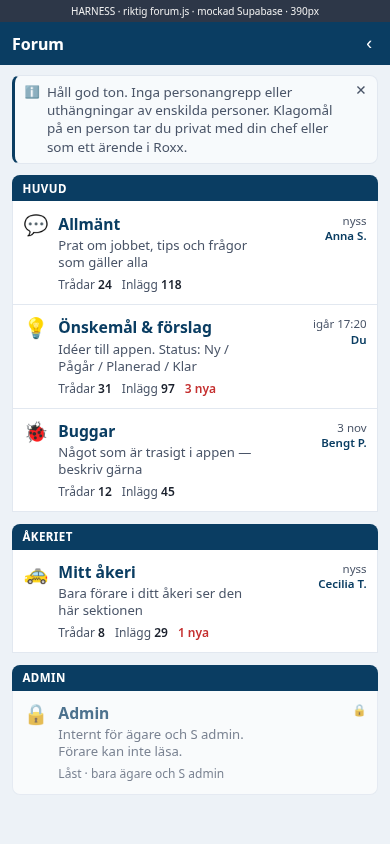
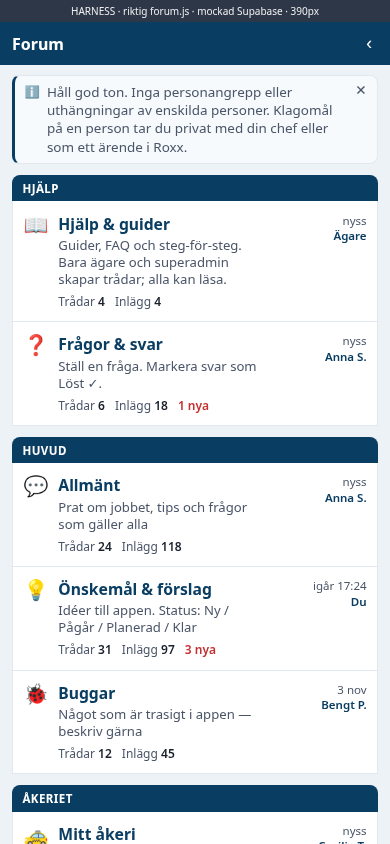
Forum: Hjälp & guider + Frågor & svar (sticky, Löst ✓)
Nya sektioner under grupp HJÄLP. Guider: alla läser, ägare/superadmin
skriver och kan fästa trådar. Frågor & svar: alla skriver; frågeställare
eller ägare/superadmin markerar svar som Löst ✓.
Seed-guider (ej applicerad): 20261106c_forum_guides_seed.sql.
Ordval: "S admin" → "superadmin" i forum/om-texter.

diff --git a/TaxiData/forum.js b/TaxiData/forum.js
@@ -57,6 +57,9 @@
     '.fx-st-pagar{background:var(--c-fefcbf,#fefcbf);color:var(--c-975a16,#975a16)}\n' +
     '.fx-st-planerad{background:var(--c-e9d8fd,#e9d8fd);color:var(--c-553c9a,#553c9a)}\n' +
     '.fx-st-klar{background:var(--c-c6f6d5,#c6f6d5);color:var(--c-22543d,#22543d)}\n' +
+    '.fx-st-lost{background:var(--c-c6f6d5,#c6f6d5);color:var(--c-22543d,#22543d)}\n' +
+    '.fx-pin{font-size:.72rem;margin-right:.2rem}\n' +
+    '.fx-sol{outline:2px solid var(--c-22543d,#22543d);outline-offset:-2px}\n' +
     '.fx-post{background:var(--surface);border:1px solid var(--border-soft,var(--border));border-radius:8px;margin:0 0 .55rem;overflow:hidden}\n' +
     '.fx-post .ph{display:flex;justify-content:space-between;gap:8px;padding:.45rem .6rem;background:var(--surface-soft,var(--bg,#f7fafc));border-bottom:1px solid var(--border-soft,var(--border));font-size:.82rem}\n' +
     '.fx-post .au{font-weight:700;color:var(--primary)}\n' +
@@ -146,7 +149,7 @@
   function setUnread(n) { if (window.setBadge) setBadge('forum', +n || 0); }
   function push(view) { try { history.pushState({ view: F.id, sub: view }, ''); } catch (e) {} }
   function flashHtml() { var f = st.flash; st.flash = null; return f ? '<div class="fx-flash">' + esc(f) + '</div>' : ''; }
-  function grpLabel(g) { return g === 'akeri' ? 'Åkeriet' : g === 'admin' ? 'Admin' : 'Huvud'; }
+  function grpLabel(g) { return g === 'hjalp' ? 'Hjälp' : g === 'akeri' ? 'Åkeriet' : g === 'admin' ? 'Admin' : 'Huvud'; }
 
   // ── Views ──────────────────────────────────────────────────────────────
 
@@ -178,7 +181,7 @@
           '<div class="main"><div class="name">' + esc(s.title) + '</div>' +
           '<div class="desc">' + esc(s.description || '') + '</div>' +
           (locked
-            ? '<div class="meta"><span>Låst · bara ägare och S admin</span></div></div><div class="last">🔒</div>'
+            ? '<div class="meta"><span>Låst · bara ägare och superadmin</span></div></div><div class="last">🔒</div>'
             : '<div class="meta"><span>Trådar <b>' + (+s.threads || 0) + '</b></span><span>Inlägg <b>' + (+s.replies || 0) + '</b></span>' +
               (s.unread ? '<span class="new">' + s.unread + ' nya</span>' : '') + '</div></div>' +
               '<div class="last">' + (s.last ? (esc(when(s.last.at)) + '<br><span class="who">' + esc(s.last.mine ? 'Du' : sn(s.last.author)) + '</span>') : '—') + '</div>') +
@@ -213,7 +216,9 @@
       html += '<div class="fx-thhead" aria-hidden="true"><span>Tråd</span><span>Sv</span><span>Senaste</span></div>';
       list.forEach(function (t) {
         html += '<button type="button" class="fx-th' + (t.status === 'klar' ? ' dim' : '') + '" data-a="thread" data-id="' + t.id + '">' +
-          '<div class="ti"><div class="t">' + (t.unread ? '💬 ' : '') + esc(t.title) + stChip(t.status) + '</div>' +
+          '<div class="ti"><div class="t">' + (t.sticky ? '<span class="fx-pin" title="Fäst">📌</span>' : '') +
+          (t.unread ? '💬 ' : '') + esc(t.title) + stChip(t.status) +
+          (t.solved ? '<span class="fx-st fx-st-lost">Löst ✓</span>' : '') + '</div>' +
           '<div class="s">av ' + esc(t.mine ? 'Du' : sn(t.author)) + (t.co ? ' · ' + esc(t.co) : '') + ' · ' + esc(when(t.created_at)) + '</div></div>' +
           '<div class="n">' + (+t.replies || 0) + '</div>' +
           '<div class="lm">' + esc(when(t.last_activity_at)) + '<br><span class="who">' + esc(sn(t.last_author || t.author)) + '</span></div></button>';
@@ -235,7 +240,11 @@
     if (!t) { root.innerHTML = html + '<div class="fx-empty">Laddar…</div>'; return; }
     html += '<div class="fx-crumb"><button type="button" data-a="home">Forum</button><span>›</span>' +
       '<button type="button" data-a="sec" data-id="' + esc(t.section.id) + '">' + esc(t.section.title) + '</button>' +
-      '<span>›</span><b>' + esc(t.title) + '</b>' + stChip(t.status) + '</div>';
+      '<span>›</span><b>' + (t.sticky ? '📌 ' : '') + esc(t.title) + '</b>' + stChip(t.status) +
+      (t.solved ? '<span class="fx-st fx-st-lost">Löst ✓</span>' : '') + '</div>';
+    if (t.can_pin) {
+      html += '<div class="fx-actions"><button type="button" data-a="pin">' + (t.sticky ? 'Lossa tråd' : 'Fäst tråd') + '</button></div>';
+    }
     if (st.err) html += '<div class="fx-err">' + esc(st.err) + '</div>';
     if (t.section.has_status && t.status) {
       html += '<div class="fx-status">Status: <b>' + esc(stName(t.status)) + '</b>' +
@@ -257,10 +266,16 @@
       }
     }
     (t.posts || []).forEach(function (p) {
-      html += '<div class="fx-post' + (p.hidden ? ' hid' : '') + '"><div class="ph"><span class="au">' + who(p.author, p.aid) + '</span>' +
-        '<span class="tm">#' + p.n + ' · ' + esc(when(p.created_at)) + (p.edited ? ' · redigerad' : '') + '</span></div>' +
+      html += '<div class="fx-post' + (p.hidden ? ' hid' : '') + (p.is_solution ? ' fx-sol' : '') + '"><div class="ph"><span class="au">' + who(p.author, p.aid) + '</span>' +
+        '<span class="tm">#' + p.n + ' · ' + esc(when(p.created_at)) + (p.edited ? ' · redigerad' : '') +
+        (p.is_solution ? ' · Löst ✓' : '') + '</span></div>' +
         '<div class="pb">' + esc(p.body) + '</div>' +
-        '<div class="pf">' + (p.mine ? 'Du' : esc(sn(p.author))) + (p.co ? ' · ' + esc(p.co) : '') + '</div></div>';
+        '<div class="pf">' + (p.mine ? 'Du' : esc(sn(p.author))) + (p.co ? ' · ' + esc(p.co) : '');
+      if (t.can_solve && p.n > 1) {
+        if (p.is_solution) html += ' · <button type="button" data-a="unsolve">Ta bort Löst</button>';
+        else html += ' · <button type="button" data-a="solve" data-id="' + p.id + '">Markera som Löst ✓</button>';
+      }
+      html += '</div></div>';
     });
     if (t.can_write) {
       html += '<div class="fx-reply">' + ruleBox(true) +
@@ -347,7 +362,7 @@
     if (a === 'rulesok') { rulesAccept(); return; }
     if (a === 'home') { goHome(); return; }
     if (a === 'sec') { goSection(el.getAttribute('data-id')); return; }
-    if (a === 'locked') { alert('Den här sektionen är bara för ägare och S admin.'); return; }
+    if (a === 'locked') { alert('Den här sektionen är bara för ägare och superadmin.'); return; }
     if (a === 'thread') { goThread(+el.getAttribute('data-id')); return; }
     if (a === 'new') { openEditor(null); return; }
     if (a === 'togklar') {
@@ -363,6 +378,39 @@
       st.busy = true; paint();
       rpc('forum_thread_status', { p_thread_id: st.thread.id, p_status: st.pick, p_comment: c ? c.value : '' }).then(function () {
         st.busy = false; st.pick = null; st.flash = 'Statusen är sparad.';
+        return loadThread(st.thread.id);
+      }).then(function () { paint(); }).catch(function (e) {
+        st.busy = false; if (!fail(e)) { st.err = errText(e); paint(); }
+      });
+      return;
+    }
+    if (a === 'pin') {
+      if (!st.thread || st.busy) return;
+      st.busy = true; paint();
+      rpc('forum_thread_pin', { p_thread_id: st.thread.id, p_sticky: !st.thread.sticky }).then(function () {
+        st.busy = false; st.flash = st.thread.sticky ? 'Tråden är lossad.' : 'Tråden är fäst.';
+        return loadThread(st.thread.id);
+      }).then(function () { paint(); }).catch(function (e) {
+        st.busy = false; if (!fail(e)) { st.err = errText(e); paint(); }
+      });
+      return;
+    }
+    if (a === 'solve') {
+      if (!st.thread || st.busy) return;
+      st.busy = true; paint();
+      rpc('forum_thread_solve', { p_thread_id: st.thread.id, p_reply_id: +el.getAttribute('data-id') }).then(function () {
+        st.busy = false; st.flash = 'Svaret är markerat som Löst ✓.';
+        return loadThread(st.thread.id);
+      }).then(function () { paint(); }).catch(function (e) {
+        st.busy = false; if (!fail(e)) { st.err = errText(e); paint(); }
+      });
+      return;
+    }
+    if (a === 'unsolve') {
+      if (!st.thread || st.busy) return;
+      st.busy = true; paint();
+      rpc('forum_thread_solve', { p_thread_id: st.thread.id, p_reply_id: null }).then(function () {
+        st.busy = false; st.flash = 'Löst-markeringen är borttagen.';
         return loadThread(st.thread.id);
       }).then(function () { paint(); }).catch(function (e) {
         st.busy = false; if (!fail(e)) { st.err = errText(e); paint(); }

diff --git a/TaxiData/om-data.js b/TaxiData/om-data.js
@@ -11,11 +11,11 @@ window.OM_DATA = {
     ['🏆', 'Topplistor', 'hur du ligger till jämfört med andra (anonymt)'],
     ['🛠', 'Anmälningar & ärenden', 'felanmälan, sånt som behövs till bilen, verkstadstimmar och sjukanmälan'],
     ['📅', 'Kalender', 'konserter, matcher, mässor och andra evenemang'],
-    ['💬', 'Forum', 'sektioner med trådar: Allmänt, Önskemål, Buggar, Mitt åkeri'],
+    ['💬', 'Forum', 'Hjälp & guider, Frågor & svar, Allmänt, Önskemål, Buggar, Mitt åkeri'],
     ['🔮', 'Prognos', 'kommande bokningar per zon och morgonprognos'],
     ['🤖', 'Hjälpbot', 'liten hjälpare längst ner på skärmen']
   ],
-  builder: 'Appen byggs av Christian (S admin) och är under utveckling. Saker kan ändras, och ibland blir något fel.',
+  builder: 'Appen byggs av Christian (superadmin) och är under utveckling. Saker kan ändras, och ibland blir något fel.',
   builder_demo: 'Appen är under utveckling. Saker kan ändras, och ibland blir något fel.',   // demokonton: inget namn
   report: 'Hittar du ett fel eller har en idé? Skriv i Forum under Buggar eller Önskemål & förslag. Där ser du också status (Ny / Pågår / Planerad / Klar).',
   faq: [
@@ -34,9 +34,9 @@ window.OM_DATA = {
     { q: 'Vem ser mitt namn i Topplistor?',
       a: 'Andra förare ser bara placering och värde, inte namn. Din egen rad visas som "Du". Bara ägaren ser namn.' },
     { q: 'Vem ser mina felanmälningar i Anmälningar & ärenden?',
-      a: 'Du ser dina egna anmälningar. Ägaren och S admin ser alla, så att felet kan åtgärdas. Andra förare ser inte dina anmälningar.' },
+      a: 'Du ser dina egna anmälningar. Ägaren och superadmin ser alla, så att felet kan åtgärdas. Andra förare ser inte dina anmälningar.' },
     { q: 'Vem ser det jag skriver i Forum?',
-      a: 'Allmänt, Önskemål & förslag och Buggar är gemensamma: där ser förare från alla anslutna åkerier det du skriver, med ditt åkeris namn bredvid ditt namn. Mitt åkeri ser bara förarna i ditt eget åkeri. Admin-sektionen syns bara för ägare och S admin. Ditt namn visas som förnamn och första bokstaven i efternamnet, t.ex. "Anna S.".' },
+      a: 'Allmänt, Önskemål & förslag och Buggar är gemensamma: där ser förare från alla anslutna åkerier det du skriver, med ditt åkeris namn bredvid ditt namn. Mitt åkeri ser bara förarna i ditt eget åkeri. Admin-sektionen syns bara för ägare och superadmin. Ditt namn visas som förnamn och första bokstaven i efternamnet, t.ex. "Anna S.".' },
     { q: 'Hur byter jag profilbild?',
       a: 'Tryck på den runda knappen uppe till höger och välj "Lägg till profilbild" eller "Byt profilbild". Där kan du också ta bort bilden.' },
     { q: 'Hur loggar jag in första gången?',

diff --git a/TaxiData/index.html b/TaxiData/index.html
@@ -157,7 +157,7 @@
   <script src="kalender.js?v=20261104ar1"></script>
   <script src="hjalpbot.js?v=zzzda1"></script>
   <script src="profilbild.js?v=20261105kh1"></script>
-  <script src="forum.js?v=20261106fc2"></script>
+  <script src="forum.js?v=20261106fc3"></script>
   <script src="om-data.js?v=20261030b"></script>
   <script src="changelog.js?v=20261105kh1"></script>
   <script src="om.js?v=20261104sa2"></script>

diff --git a/docs/forum/README.md b/docs/forum/README.md
@@ -6,13 +6,17 @@ Branch: `feat/forum-classic` · Backup: `backup/pre-forum-classic-20261106`
 Forumet är ombyggt till klassisk layout: **sektioner → trådar → svar**.
 Fem standardsektioner (inga admin-skapade sektioner i v1):
 
-| Id | Titel | Scope | Status |
-|----|-------|-------|--------|
-| `allmant` | Allmänt | global | nej |
-| `onskemal` | Önskemål & förslag | global | Ny/Pågår/Planerad/Klar |
-| `buggar` | Buggar | global | Ny/Pågår/Planerad/Klar |
-| `akeri` | Mitt åkeri | eget åkeri | nej |
-| `admin` | Admin | ägare + S admin | nej (låst för förare) |
+| Id | Titel | Scope | Skriva | Extra |
+|----|-------|-------|--------|-------|
+| `hjalp` | Hjälp & guider | global | ägare + superadmin | sticky/pin, grupp HJÄLP |
+| `fragor` | Frågor & svar | global | alla | Löst ✓ på svar, grupp HJÄLP |
+| `allmant` | Allmänt | global | alla | |
+| `onskemal` | Önskemål & förslag | global | alla | status Ny/Pågår/Planerad/Klar |
+| `buggar` | Buggar | global | alla | status |
+| `akeri` | Mitt åkeri | eget åkeri | eget åkeri | |
+| `admin` | Admin | ägare + superadmin | ägare + superadmin | låst för förare |
+
+Guider-seed (ej applicerad): `supabase/migrations/20261106c_forum_guides_seed.sql`.
 
 ## Datamigrering
 **Ingen.** Forumet var tomt (`forum_posts` = 0). Gamla tabeller/RPC:er lämnas kvar orörda.
